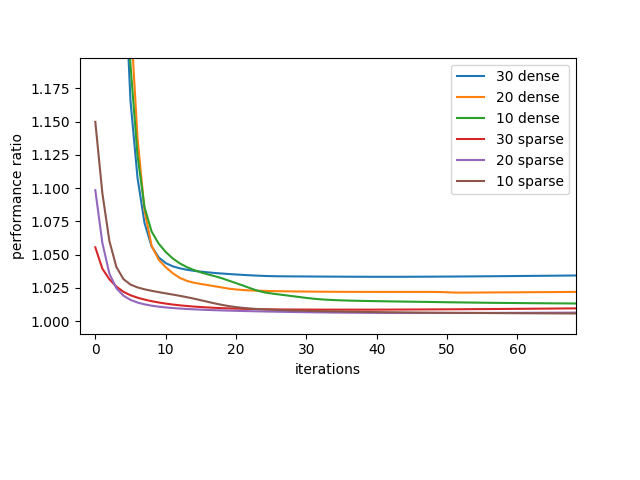
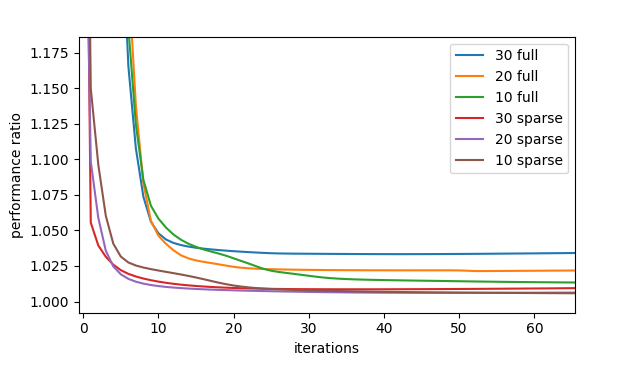
Describe exp 5.2 a 5.3

diff --git a/Thesis/DP_Lopatovsky_Lukas_2017.tex b/Thesis/DP_Lopatovsky_Lukas_2017.tex
@@ -1345,7 +1345,13 @@ The experiment also stresses the importance of sufficiently sized dataset, as th
 
 \subsection{High Number of Hidden States}\label{sec:high}
 
+Training of models with high number of hidden states is computationally expensive. In this experiment we measure time demands of training for full and sparse jump-rate matrix as described in algorithm section \ref{sec:alg}. The second part of the experiment examine performance ratio and how it change with the growing number of hidden states. 
+
 \subsubsection*{ Description }
+
+All datasets used in this experiment were generated by the model with birth and death sequence of hidden states (similar as in Figure \ref{fig:db}) always with the same number of hidden states and observation symbols as the trained models. The jump-rate matrix $\matr{Q}$ of such a model is three-diagonal, the actual jump rates were randomly generated.
+
+As the training models we have used \textit{full} jump-rate matrix or \textit{sparse} - three-diagonal jump-rate matrix. All parameters were initially randomly generated. In the first part of the experiment we have measured time of single iteration for models with full and sparse matrix. In the second part we have compared the convergence of models with full and sparse jump-rate matrix with different number of hidden states.   
 
 \subsubsection*{ Observation }
 \begin{figure}
@@ -1376,11 +1382,11 @@ The experiment also stresses the importance of sufficiently sized dataset, as th
 \setsecnumdepth{part}
 \chapter{Conclusion}
 
-malo informacie (vela hidden) menej presny.
-rychlo sa straca informacia 
+%malo informacie (vela hidden) menej presny.
+%rychlo sa straca informacia 
 
 \section{Future Work}
-
+%rozsirenia - ina reprezentacia matic na sparse , continuous observations, vztah s rekurent neural networks.https://en.wikipedia.org/wiki/Recurrent_neural_network - Continuous time RNN.
 
 \bibliographystyle{iso690}
 \bibliography{bibliography}

diff --git a/Thesis/img/ex5.3/paint.py b/Thesis/img/ex5.3/paint.py
@@ -15,9 +15,9 @@ def plot_mixed_tables():
     ax.set_xlabel('iterations')
     ax.set_ylabel('performance ratio')
 
-    plt.plot( d3[3], label = "30 dense"  )
-    plt.plot( d2[3], label = "20 dense"  )
-    plt.plot( d1[3], label = "10 dense"  )
+    plt.plot( d3[3], label = "30 full"  )
+    plt.plot( d2[3], label = "20 full"  )
+    plt.plot( d1[3], label = "10 full"  )
     plt.plot( d3[1], label = "30 sparse"  ) 
     plt.plot( d2[1], label = "20 sparse"  )  
     plt.plot( d1[1], label = "10 sparse"  )
